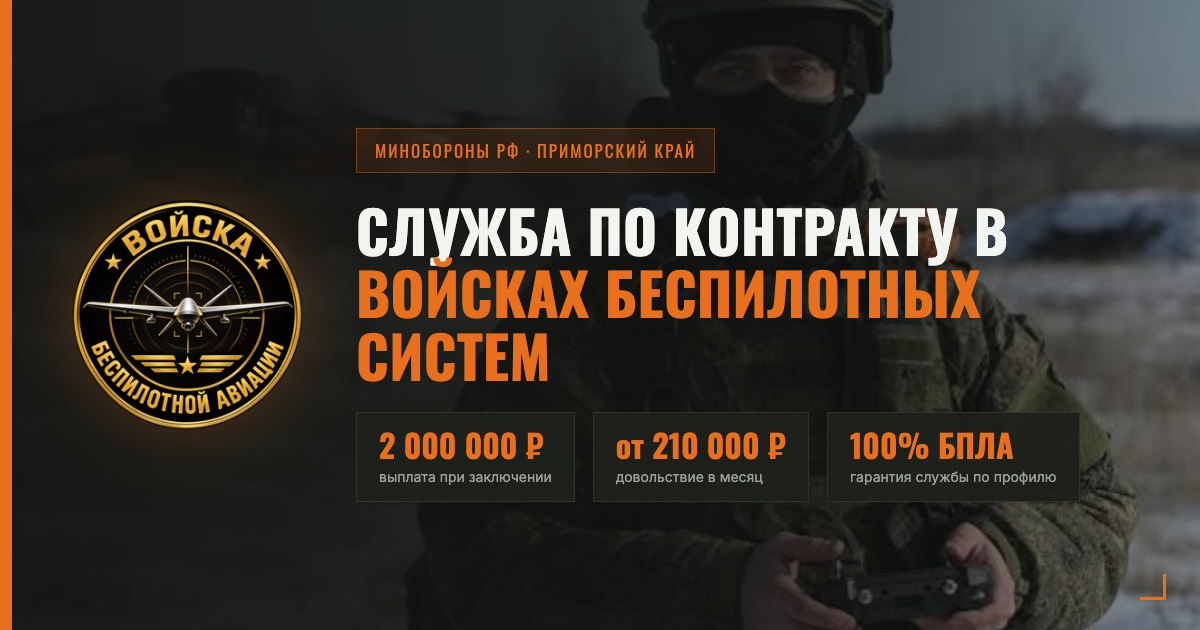
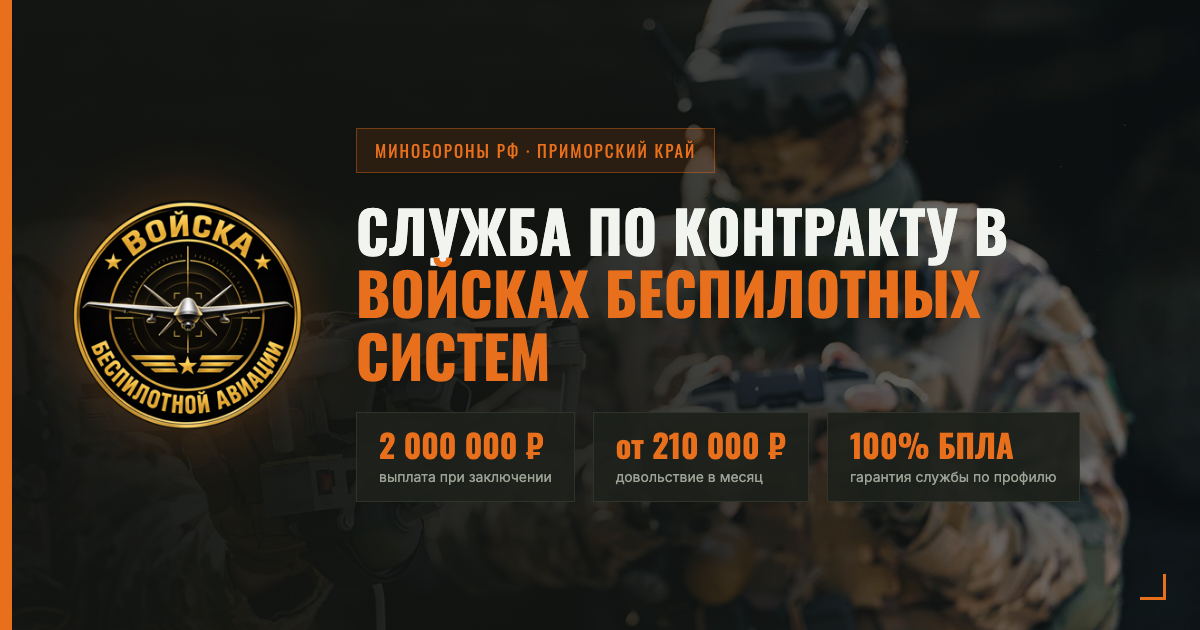
Новое фото первого экрана: 1169x730 вместо 602x451
- hero.webp в репозитории (104 КБ), фон стал локальным и резким на любом экране
- на десктопе снова полноэкранный cover: увеличение 1.03x вместо 2x
- на мобильных картинка 3:2 в натуральном масштабе
- og-image.png пересобран с нового фото
- preload главного фото для быстрой отрисовки

diff --git a/index.html b/index.html
@@ -4,6 +4,7 @@
 <meta charset="UTF-8">
 <meta name="viewport" content="width=device-width, initial-scale=1.0">
 <title>Служба по контракту в Войсках беспилотных систем — Приморский край</title>
+<link rel="preload" as="image" href="hero.webp" type="image/webp">
 <link rel="icon" href="favicon.ico" sizes="any">
 <link rel="icon" type="image/png" sizes="16x16" href="favicon-16x16.png">
 <link rel="icon" type="image/png" sizes="32x32" href="favicon-32x32.png">
@@ -86,7 +87,7 @@
       padding: 96px 0 76px;
       background:
         linear-gradient(90deg, rgba(18,20,17,0.97) 0%, rgba(18,20,17,0.92) 44%, rgba(18,20,17,0.30) 100%),
-        url('https://optim.tildacdn.com/tila3631-3838-4739-a662-326662363032/-/format/webp/11.jpeg.webp') right center / auto 100% no-repeat,
+        url('hero.webp') right center / cover no-repeat,
         var(--t-bg);
       border-bottom: 2px solid var(--t-accent);
     }
@@ -129,7 +130,7 @@
 
   <div class="t-vbs-hero">
     <div class="t-vbs-hero-photo">
-      <img src="https://optim.tildacdn.com/tila3631-3838-4739-a662-326662363032/-/format/webp/11.jpeg.webp" alt="Оператор беспилотных систем на боевой позиции" width="602" height="451">
+      <img src="hero.webp" alt="Оператор беспилотных систем готовит FPV-дрон к вылету" width="1169" height="730">
     </div>
     <div class="t-vbs-wrap">
       <div class="t-vbs-headerbar">
